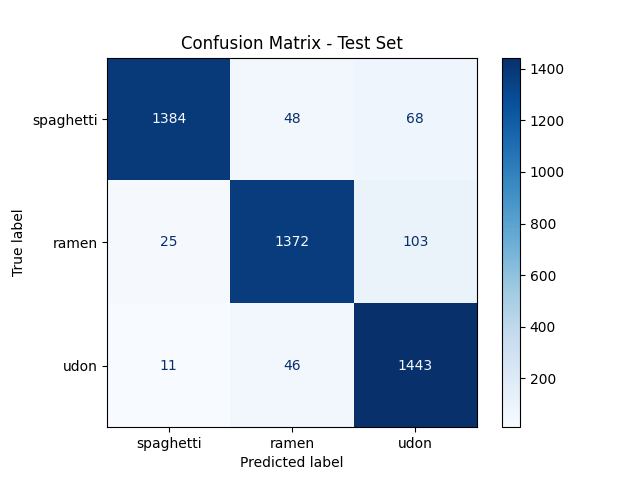
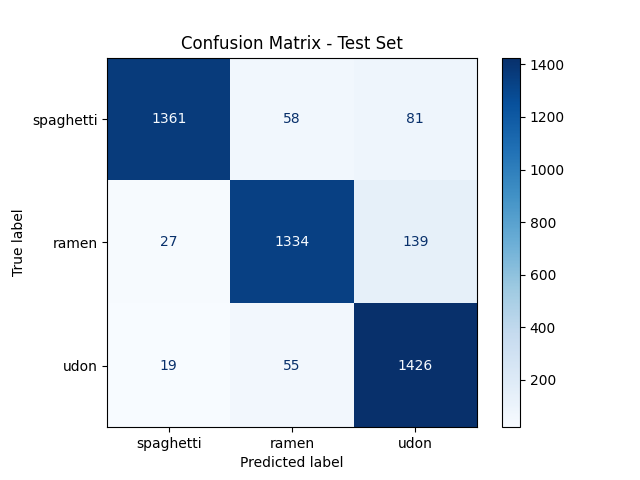
Test data augmentation but failed

diff --git a/train.py b/train.py
@@ -6,6 +6,8 @@ from torchvision import transforms, models
 from sklearn.metrics import accuracy_score
 from dataset import CustomImageDataset, train_samples, val_samples
 from tqdm import tqdm
+from augment import train_transform, val_transform
+
 
 # ⚙ 設定
 device = torch.device("cuda" if torch.cuda.is_available() else "cpu")
@@ -21,8 +23,8 @@ transform = transforms.Compose([
 ])
 
 # 📂 Dataset & Loader
-train_dataset = CustomImageDataset(train_samples, transform=transform)
-val_dataset = CustomImageDataset(val_samples, transform=transform)
+train_dataset = CustomImageDataset(train_samples, transform=train_transform)
+val_dataset = CustomImageDataset(val_samples, transform=val_transform)
 train_loader = DataLoader(train_dataset, batch_size=batch_size, shuffle=True)
 val_loader = DataLoader(val_dataset, batch_size=batch_size, shuffle=False)
 

diff --git a/augment.py b/augment.py
@@ -1,0 +1,20 @@
+from torchvision import transforms
+
+train_transform = transforms.Compose(
+    [
+        transforms.Resize((256, 256)),
+        transforms.RandomResizedCrop(224, scale=(0.8, 1.0)),
+        transforms.RandomHorizontalFlip(p=0.5),
+        transforms.RandomRotation(15),
+        transforms.ColorJitter(brightness=0.2, contrast=0.2, saturation=0.2),
+        transforms.ToTensor(),
+    ]
+)
+
+
+val_transform = transforms.Compose(
+    [
+        transforms.Resize((224, 224)),
+        transforms.ToTensor(),
+    ]
+)
